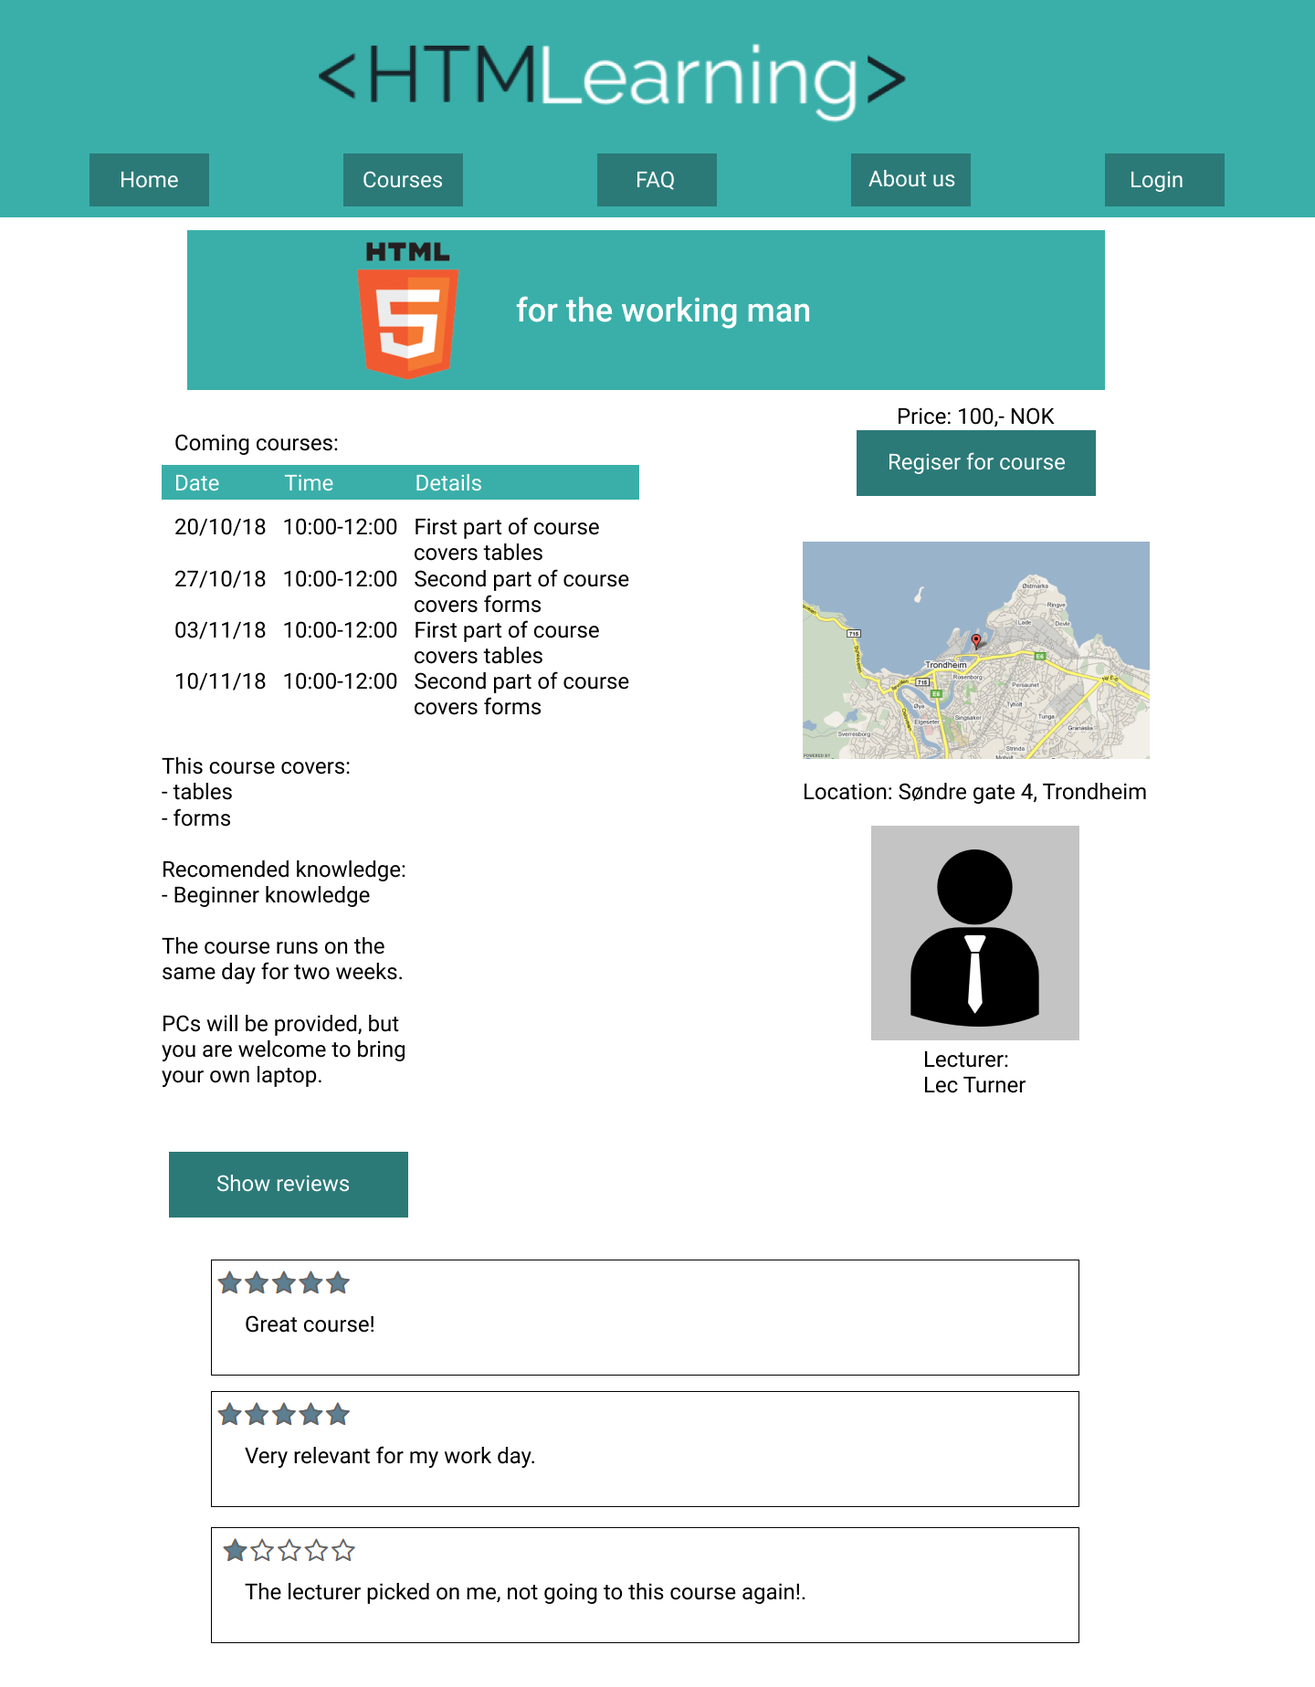
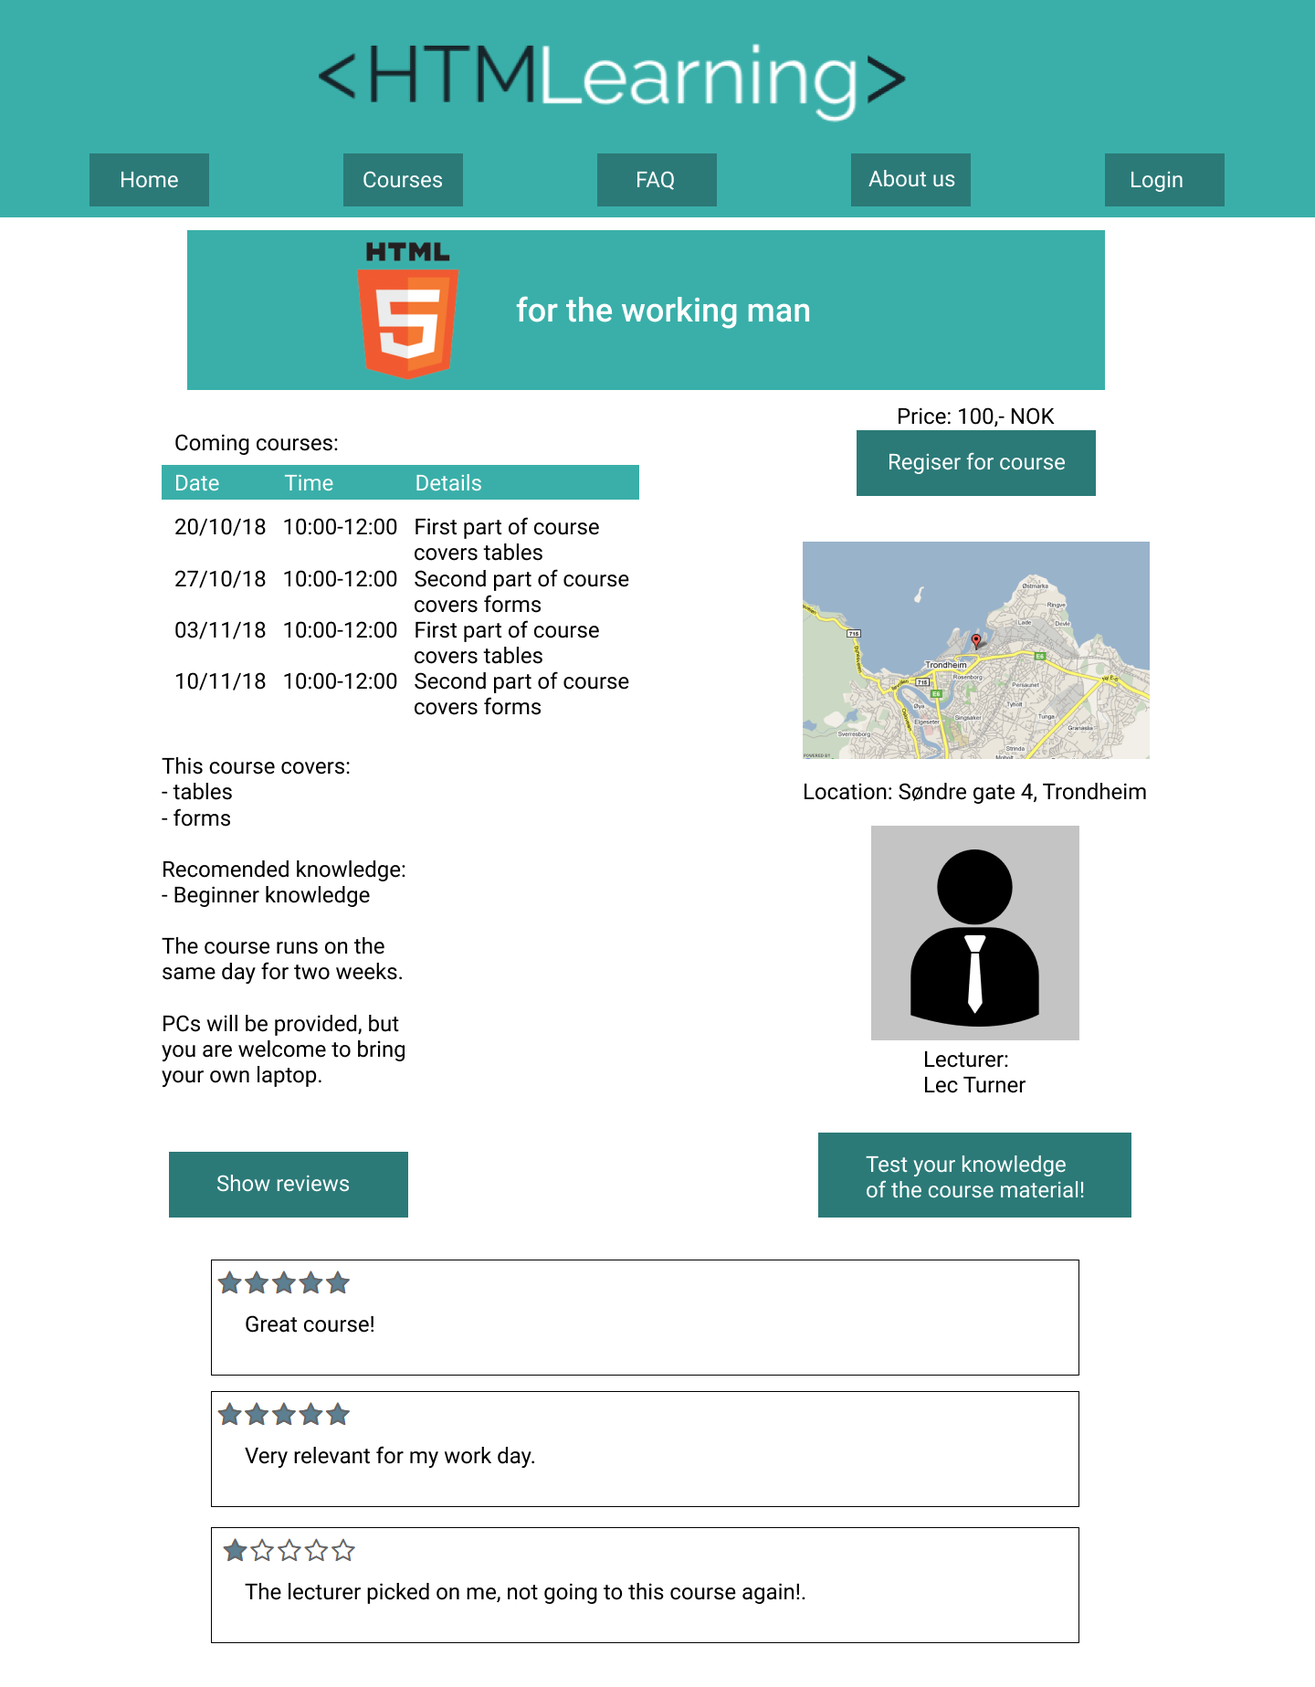
Update with quiz

Changed region(s): [[0.625, 0.6481, 0.875, 0.7407]]

diff --git a/P2_design_1.html b/P2_design_1.html
@@ -19,7 +19,7 @@
     <h2>Administrative Details</h2>
     <p>Client name: HTMLearning</p>
     <p>Website Name: HTMLearning</p>
-    <p>Contact person: Skybert</p>
+    <p>Contact person: Skybert Bertulfsen</p>
 
 
     <h2>Purpose, goals, and audience</h2>
@@ -41,6 +41,7 @@
                 <li>Detailed course description (a page for each course type)
                     <ul>
                         <li>Link to the page of the lecturer of this course</li>
+                        <li>Quiz if the knowledge level of the course requires it</li>
                     </ul>
                 </li>
             </ul>
@@ -112,138 +113,146 @@
         </li>
     </ul>
     <h2>Content</h2>
-	<ol>
-		<li>Mockup and description of homepage, navigation bar and footer</li>
-		<p>The frontpage is what the user will see first when they navigate our website, therefore it’s important to have an attractive,
-		but also intuitive frontpage. We decided that this color will attract the users attention along with the huge banner. It is also
-		important that the site is intuitive, the user can scroll down to reach the homepage, but we also added buttons to give the viewer
-		more control. We haven’t fully decided what the objects on the homepage should link to, right now the idea is for it to be an 
-		introduction to our website with links to other parts of the website. Another idea is to have a news feed with links to own articles,
-		the articles can include recent news, tips for coding or links to helpful pages like https://www.w3schools.com/html/. The links
-		are put inside frames consisting of text and a picture, whereas the frame will float left or right. The size
-		of the picture should be 150x150.
-		</p>
-		
-		<p>
-		A navigation bar should link to the most essential parts of our website. We decided to make it horizontal in the top of the screen,
-		it’s supposed to be sticky if the user scrolls down. This should give the user control of what happens and lets them navigate easily
-		across the website. The navigation bar should cover the full width of the screen, on all platforms.
-		</p>
-		<p>
-		In the footer we put info about HTMLearning, including contact information and localization. This will always be at the bottom of 
-		every page, covering the full width. The contact information will be to the left and the localization on the right, with a map.
-		</p>
-		<figure>
-        <img src="img/Frontpage.png" alt="Frontpage">
-        <br>
-        <figcaption>
-            The image contains the frontpage, navigation menu and the footer, the contents of the page are yet to be decided.
-        </figcaption>
-		</figure>
-		<li>Mockup and description of courses overview</li>
-		<p>	All the different course types available are shown in an overview, with each type within a colored box and space between boxes to
-		easily separate the types. Each box is clickable and redirects to a page for the specific course type with more detailed info and
-		the option to register for the course. The box is the same color as the buttons of the menu and will change background color on 
-		mouseover, to make it clearer that it is clickable. 
-		Information about price and the date of the next course is shown to make it easier for the user to decide whether they are interested
-		in learning more about the course or not.
-		</p>
-		<figure>
-        <img src="img/CoursesOverview.png" alt="Courses overview">
-        <br>
-        <figcaption>
-            Courses overview: An overview for the different courses this site provides.
-        </figcaption>
-		</figure>
-		<li>Mockup and description of course-page</li>
-		<p> These pages offers all information relevant to the specific course type. The information at the top is deemed most relevant, with 
-		less relevant information going down the page. A sidebar to the right with key information about price, location and the lecturer is
-		shown for easy access to this information, and because each link further (price with the register button, location to a map, and 
-		lecturer to the lecturer page).
-		Reviews are hidden by default in order to not bombard the user with too much information, but can be shown by clicking the 
-		“Show reviews” button. 
-		</p>
-		<figure>
-        <img src="img/Course.png" alt="Course">
-        <br>
-        <figcaption>
-            Course: A more detailed page for a specific course.
-        </figcaption>
-		</figure>
-		<li>Mockup and description of FAQ </li>
-		<p> The FAQ-page contains a list of frequently asked questions. Answers are hidden until a user clicks on them. They will the slide 
-		down beneath the question in text that is smaller the the questions. The question should change to a slightly lighter color when it 
-		is hovered over, this will indicate that it is clickable. 
-		With this page, the client wants to provide helpful information about the page and themselves. It will provide info about such as how
-		to sign up for a course, where the client is located, where the physical courses are located etc. 
-		The questions will be centered, and the text will float to the left. The questions will have font-size 22px and the answers will have
-		font-size 18px.
-		</p>
-		<figure>
-        <img src="img/Desktopfaq.png" alt="FAQ">
-        <br>
-        <figcaption>
-            Frequently asked questions: When you click a question it expands and shows an answer.
-        </figcaption>
-		</figure>
-		<li>Mockup and description of About us </li>
-		<p>The about us page contains information about the client, such as the aim and services it provides. Additionally it contains an 
-		overview of their lecturers. This page will give customers and potential customers information that might be of their interest. 
-		On top of the page, there will be a few sentences about the client. Below the text, there will be some pictures on the left which will
-		be of employees, coursetakers and an example of code. On the right, there will be a box with a text about what the clients general 
-		mission is. On the bottom of the page, there will be boxes with text with a tiny bit of info about each lecturer. The boxes will have
-		circular pictures of the lecturer that is described inside the box. 
-		The biggest image will be 250 x 350, the smaller ones will be 125 x 165. The circular images will be 120 x 120.  
-		</p>
-		<figure>
-        <img src="img/Desktopabout us.png" alt="About us">
-        <br>
-        <figcaption>
-            About us: Information about the company and a list over employees.
-        </figcaption>
-		</figure>
-		
-		<li>Mockup and description of lecturers-page</li>
-		<p></p>
-		<li>Mockup and description of login and sign up </li>
-		<p> The lecturers page will provide the users with information about each and every lecturer they might want to know more about. With this page the client wishes that the coursetakers should be able to make taking courses on “HTMLearning” a more personal experience. Knowing a bit about the ones lecturing you, might help with that.
-		The page will have a picture on the right side of the lecturer in question. On the left side, there will be a short text with information concerning the lecturer. Below the text and pictures, there will be buttons. The buttons will cycle through the list of the lecturers the client has at their disposal. 
-		The picture will be 300 x 400 and the buttons will be 120 x 40.
-		</p>
-		<figure>
-        <img src="img/DesktopLecturer.png" alt="Lecturers">
-        <br>
-        <figcaption>
-            Lecturers: A dynamic list of each lecturer.
-        </figcaption>
-		</figure>
-		<li>Mockup and description of login and sign up</li>
-		<p>The login and registration is done in one page, separated by a tab just above the forms. The entirety of the page will be centered in a box. In this box the user will be able to create an account on the site, or login with as an existing user. There will be input fields for first name, last name, e-mail address, password and the confirmation of the password in the sign up tab. The login tab will only have input fields for the existing users’ e-mail address and password. The form will also do some client-side validation on the email and on the length of the username and password.
-		The point of this page is obviously to let users have accounts with which they are able to log in with. 
-		The box will be 375 x 500, the sign up-/login button will be 150 x 50 and the tabs will be 187.5 x 100.
-		</p>
-		<figure>
-        <img src="img/DesktopLogin.png" alt="Log in">
-        <br>
-        <figcaption>
-            Log in: Let's the user log in to an account.
-        </figcaption>
-		</figure>
-		<figure>
-        <img src="img/DesktopSign Up.png" alt="Sign Up">
-        <br>
-        <figcaption>
-            Sign Up: Let's the user sign up to our website by creating an account.
-        </figcaption>
-		</figure>
-		<li>Mockup and description of the quizzes</li>
-		<p>The quiz is a multiple choice quiz (radiobuttons) with technical questions about the course. Every question has four alternatives where
-		only one of them is correct. The answers are validated by javascript (see below).
-		</p>
-		</ol>
+    <ol>
+        <li>Mockup and description of homepage, navigation bar and footer</li>
+        <p>The frontpage is what the user will see first when they navigate our website, therefore it’s important to have an attractive,
+            but also intuitive frontpage. We decided that this color will attract the users attention along with the huge banner. It is also
+            important that the site is intuitive, the user can scroll down to reach the homepage, but we also added buttons to give the viewer
+            more control. We haven’t fully decided what the objects on the homepage should link to, right now the idea is for it to be an
+            introduction to our website with links to other parts of the website. Another idea is to have a news feed with links to own articles,
+            the articles can include recent news, tips for coding or links to helpful pages like https://www.w3schools.com/html/. The links
+            are put inside frames consisting of text and a picture, whereas the frame will float left or right. The size
+            of the picture should be 150x150.
+        </p>
+
+        <p>
+            A navigation bar should link to the most essential parts of our website. We decided to make it horizontal in the top of the screen,
+            it’s supposed to be sticky if the user scrolls down. This should give the user control of what happens and lets them navigate easily
+            across the website. The navigation bar should cover the full width of the screen, on all platforms.
+        </p>
+        <p>
+            In the footer we put info about HTMLearning, including contact information and localization. This will always be at the bottom of
+            every page, covering the full width. The contact information will be to the left and the localization on the right, with a map.
+        </p>
+        <figure>
+            <img src="img/Frontpage.png" alt="Frontpage">
+            <br>
+            <figcaption>
+                The image contains the frontpage, navigation menu and the footer, the contents of the page are yet to be decided.
+            </figcaption>
+        </figure>
+        <li>Mockup and description of courses overview</li>
+        <p> All the different course types available are shown in an overview, with each type within a colored box and space between boxes to
+            easily separate the types. Each box is clickable and redirects to a page for the specific course type with more detailed info and
+            the option to register for the course. The box is the same color as the buttons of the menu and will change background color on
+            mouseover, to make it clearer that it is clickable.
+            Information about price and the date of the next course is shown to make it easier for the user to decide whether they are interested
+            in learning more about the course or not.
+        </p>
+        <figure>
+            <img src="img/CoursesOverview.png" alt="Courses overview">
+            <br>
+            <figcaption>
+                Courses overview: An overview for the different courses this site provides.
+            </figcaption>
+        </figure>
+        <li>Mockup and description of course-page</li>
+        <p> These pages offers all information relevant to the specific course type. The information at the top is deemed most relevant, with
+            less relevant information going down the page. A sidebar to the right with key information about price, location and the lecturer is
+            shown for easy access to this information, and because each link further (price with the register button, location to a map, and
+            lecturer to the lecturer page). If a quiz is available for the course this will also be shown in this bar.
+            Reviews are hidden by default in order to not bombard the user with too much information, but can be shown by clicking the
+            “Show reviews” button.
+        </p>
+        <figure>
+            <img src="img/Course.png" alt="Course">
+            <br>
+            <figcaption>
+                Course: A more detailed page for a specific course.
+            </figcaption>
+        </figure>
+        <li>Mockup and description of FAQ </li>
+        <p> The FAQ-page contains a list of frequently asked questions. Answers are hidden until a user clicks on them. They will the slide
+            down beneath the question in text that is smaller the the questions. The question should change to a slightly lighter color when it
+            is hovered over, this will indicate that it is clickable.
+            With this page, the client wants to provide helpful information about the page and themselves. It will provide info about such as how
+            to sign up for a course, where the client is located, where the physical courses are located etc.
+            The questions will be centered, and the text will float to the left. The questions will have font-size 22px and the answers will have
+            font-size 18px.
+        </p>
+        <figure>
+            <img src="img/Desktopfaq.png" alt="FAQ">
+            <br>
+            <figcaption>
+                Frequently asked questions: When you click a question it expands and shows an answer.
+            </figcaption>
+        </figure>
+        <li>Mockup and description of About us </li>
+        <p>The about us page contains information about the client, such as the aim and services it provides. Additionally it contains an
+            overview of their lecturers. This page will give customers and potential customers information that might be of their interest.
+            On top of the page, there will be a few sentences about the client. Below the text, there will be some pictures on the left which will
+            be of employees, coursetakers and an example of code. On the right, there will be a box with a text about what the clients general
+            mission is. On the bottom of the page, there will be boxes with text with a tiny bit of info about each lecturer. The boxes will have
+            circular pictures of the lecturer that is described inside the box.
+            The biggest image will be 250 x 350, the smaller ones will be 125 x 165. The circular images will be 120 x 120.
+        </p>
+        <figure>
+            <img src="img/Desktopabout us.png" alt="About us">
+            <br>
+            <figcaption>
+                About us: Information about the company and a list over employees.
+            </figcaption>
+        </figure>
+
+        <li>Mockup and description of lecturers-page</li>
+
+        <p> The lecturers page will provide the users with information about each and every lecturer they might want to know more about. With this page the client wishes that the coursetakers should be able to make taking courses on “HTMLearning” a more personal experience. Knowing a bit about the ones lecturing you, might help with that.
+            The page will have a picture on the right side of the lecturer in question. On the left side, there will be a short text with information concerning the lecturer. Below the text and pictures, there will be buttons. The buttons will cycle through the list of the lecturers the client has at their disposal.
+            The picture will be 300 x 400 and the buttons will be 120 x 40.
+        </p>
+        <figure>
+            <img src="img/DesktopLecturer.png" alt="Lecturers">
+            <br>
+            <figcaption>
+                Lecturers: A dynamic list of each lecturer.
+            </figcaption>
+        </figure>
+        <li>Mockup and description of login and sign up</li>
+        <p>The login and registration is done in one page, separated by a tab just above the forms. The entirety of the page will be centered in a box. In this box the user will be able to create an account on the site, or login with as an existing user. There will be input fields for first name, last name, e-mail address, password and the confirmation of the password in the sign up tab. The login tab will only have input fields for the existing users’ e-mail address and password. The form will also do some client-side validation on the email and on the length of the username and password.
+            The point of this page is obviously to let users have accounts with which they are able to log in with.
+            The box will be 375 x 500, the sign up-/login button will be 150 x 50 and the tabs will be 187.5 x 100.
+        </p>
+        <figure>
+            <img src="img/DesktopLogin.png" alt="Log in">
+            <br>
+            <figcaption>
+                Log in: Let's the user log in to an account.
+            </figcaption>
+        </figure>
+        <figure>
+            <img src="img/DesktopSign Up.png" alt="Sign Up">
+            <br>
+            <figcaption>
+                Sign Up: Let's the user sign up to our website by creating an account.
+            </figcaption>
+        </figure>
+        <li>Mockup and description of the quizzes</li>
+        <p>The quiz is a multiple choice quiz (radiobuttons) with technical questions about the course material. Every question has four alternatives where only one of them is correct. The answers are validated by javascript (see below). The progress bar at the bottom shows the user which questions have been answered right or wrong, and how many questions are left of the quiz. This gives the user a feeling of progress, and an indication of how well their doing.
+            Clicking the “Previous question” button takes the user to the previous question, and allows the user another chance at answering right. Since this is only a causal quiz, and not a requirement of the user to register for the course, the option to redo a question is open.
+            The user can at any time quit the quiz by clicking back to the detailed course page they came from with the “Back to course page” button.
+            At the end of the quiz the user will be presented with their score, and a recommendation of whether they would benefit from taking the course. The quiz can of course also be used after taking a course to remember what was being taught.
+        </p>
+        <figure>
+            <img src="img/Quiz.png" alt="Quiz">
+            <br>
+            <figcaption>
+                Quiz: The user can test their knowledge of the course content.
+            </figcaption>
+        </figure>
+    </ol>
 
     <h2>Minimum Requirements</h2>
-	<p> We've come up with some ideas to reach the minimum requirements goal and decided to make these js-functions:</p>
+    <p> We've come up with some ideas to reach the minimum requirements goal and decided to make these js-functions:</p>
     <h3>FAQ (help.js)</h3>
     <p>On the FAQ page we want the questions to be visible, but not the answers. However when the user clicks on a question, the answer should roll out under the question. When the user clicks the question again, the answer should roll back up and disappear.</p>
 
@@ -261,6 +270,8 @@
     <h2>Plan</h2>
     <p>A good website requires a good structure, below is an overview of the files hierarchy, followed by a plan for each file with deadlines. Changes might occur and will be documented.
     </p>
+
+    <p>Note that the lecturers page is one document loaded dynamically, while the courses pages each have their own file. Even though both these pages are pages with the same layout only different information, we felt that the courses pages would have too much different information and links for it to be conveniently stored in a JSON-file. This may also allow lecturers and administrators to easily make individual changes to their course page. </p>
 
     <h3>File hierarchy</h3>
     <ul>
